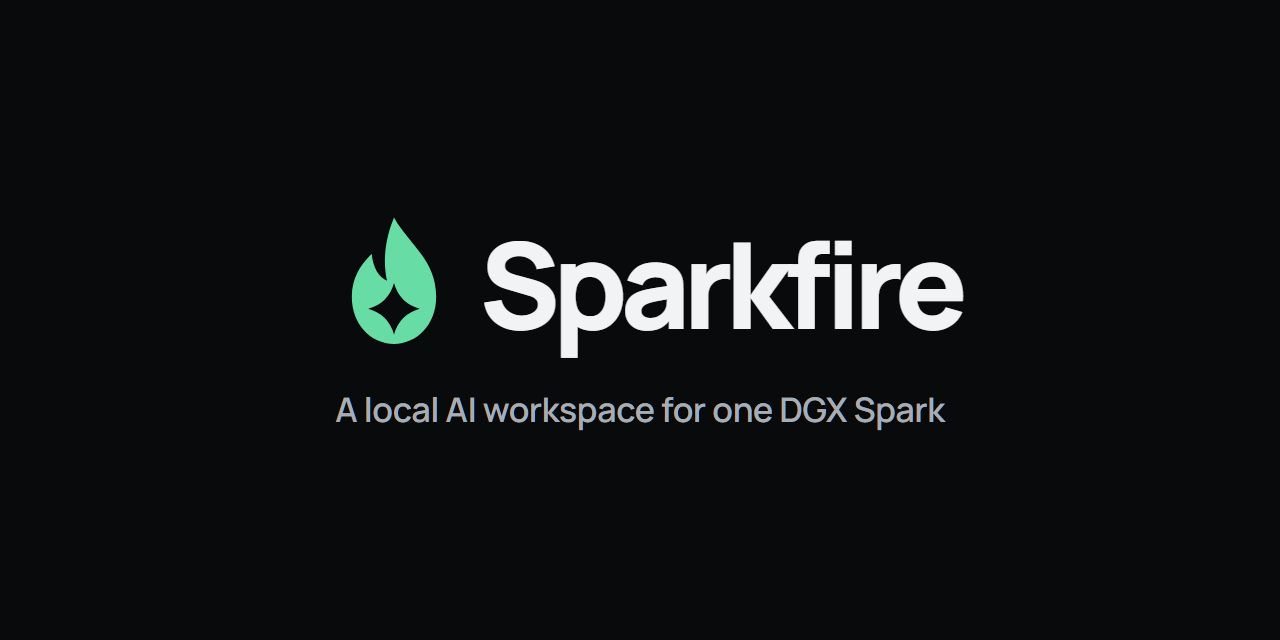
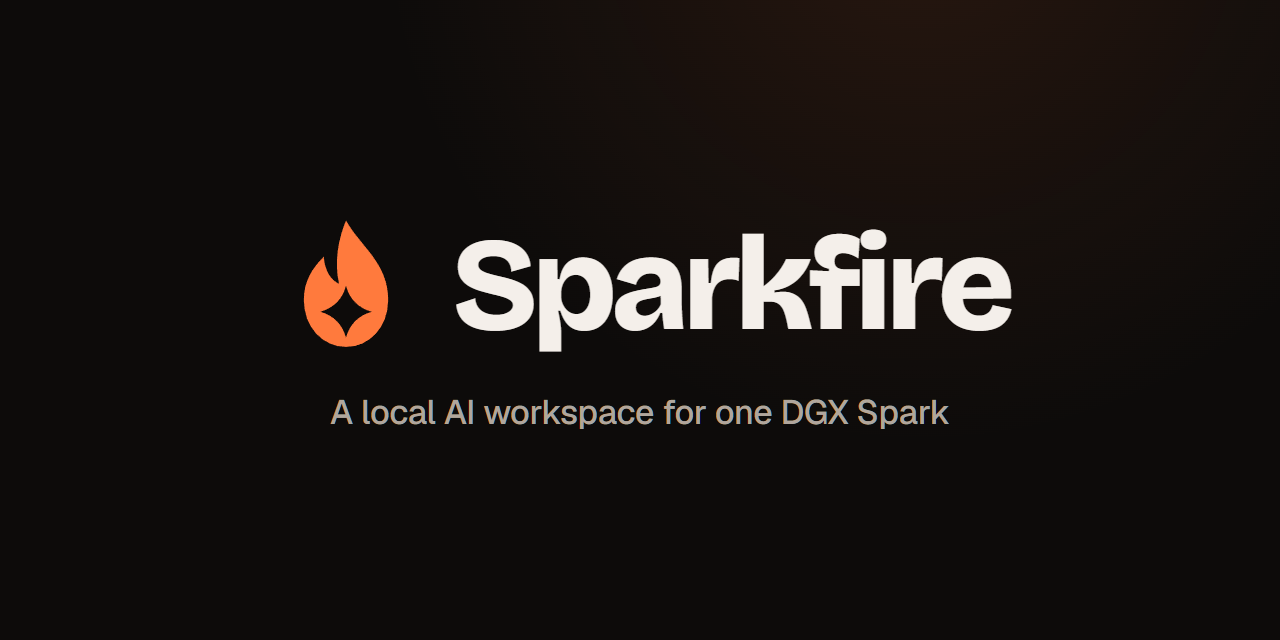
feat(ui): give Sparkfire a warm palette and an ember accent
Apart from the mint accent and the mark, Sparkfire still wore
SparklingKit's colours: the neutral ramp kept upstream's cool blue-grey
hex values, so the two apps looked the same at a glance. A flame mark in
a cool mint also never quite fitted the name.

The neutral ramp moves to warm charcoal in the dark theme and warm paper
in the light one, step for step, so no rule changes. The accent becomes
ember orange (#ff7a3d dark, #c2410c light), and the background glow
follows it. The amber family, which marks warnings and the OCR module,
shifts to a clear yellow so a warning never reads as the accent. Body,
muted and accent text keep at least 4.5:1 contrast in both themes, and
the accent at least 3:1 against panels for focus rings.

The favicon, the home-screen and manifest icons, the theme colour and
the GitHub social preview are redrawn in the new colours. Tests now keep
the favicon fills equal to each theme's accent and check that the light
theme defines every colour token the dark one does.

Changed region(s): [[0.2188, 0.3438, 0.8125, 0.5625], [0.25, 0.625, 0.75, 0.6875], [0.6562, 0.0, 0.7812, 0.0625]]

diff --git a/src/client/styles.css b/src/client/styles.css
@@ -17,30 +17,30 @@
    tinted families for status and module colours. The light theme mirrors each step. */
 :root {
   color-scheme: dark;
-  --sk-n0: #090a0c;
-  --sk-n1: #0d0f12;
-  --sk-n2: #111318;
-  --sk-n3: #15181d;
-  --sk-n4: #191c21;
-  --sk-n5: #1d2127;
-  --sk-n6: #22262d;
-  --sk-n7: #292e35;
-  --sk-n8: #303640;
-  --sk-n9: #3a414a;
-  --sk-n10: #4a515c;
-  --sk-n11: #5e6570;
-  --sk-n12: #7f8792;
-  --sk-n13: #a7adb5;
-  --sk-n14: #c4cad1;
-  --sk-n15: #e2e5e9;
-  --sk-n16: #f1f3f4;
+  --sk-n0: #0d0b0a;
+  --sk-n1: #121010;
+  --sk-n2: #161312;
+  --sk-n3: #1b1716;
+  --sk-n4: #1f1b19;
+  --sk-n5: #241f1d;
+  --sk-n6: #2a2422;
+  --sk-n7: #312b28;
+  --sk-n8: #3a332f;
+  --sk-n9: #453d38;
+  --sk-n10: #564c46;
+  --sk-n11: #6c615a;
+  --sk-n12: #8d8178;
+  --sk-n13: #b1a69c;
+  --sk-n14: #cbc2b9;
+  --sk-n15: #e5ded7;
+  --sk-n16: #f4efea;
   --sk-n17: #ffffff;
-  --sk-amber-1: #2d2715;
-  --sk-amber-2: #302711;
-  --sk-amber-3: #655227;
-  --sk-amber-4: #b06000;
-  --sk-amber-5: #c6b968;
-  --sk-amber-6: #f2c661;
+  --sk-amber-1: #29260f;
+  --sk-amber-2: #2d2a0e;
+  --sk-amber-3: #615a24;
+  --sk-amber-4: #a68a00;
+  --sk-amber-5: #d4c86a;
+  --sk-amber-6: #efd35e;
   --sk-blue-3: #0842a0;
   --sk-blue-4: #0b57d0;
   --sk-blue-6: #c5d9f0;
@@ -68,38 +68,38 @@
   --sk-teal-6: #9ed8ca;
   --sk-overlay: 255 255 255;
   --sk-shadow: 1;
-  --sk-glow: rgba(53, 82, 125, .16);
-  --sk-accent: #67dca5;
-  --sk-accent-hover: #82e6b7;
-  --sk-accent-ink: #062418;
-  --sk-accent-soft: rgba(103, 220, 165, .14);
+  --sk-glow: rgba(255, 122, 61, .11);
+  --sk-accent: #ff7a3d;
+  --sk-accent-hover: #ff935f;
+  --sk-accent-ink: #200b00;
+  --sk-accent-soft: rgba(255, 122, 61, .14);
 }
 :root[data-theme="light"] {
   color-scheme: light;
-  --sk-n0: #f2f3f5;
-  --sk-n1: #f7f8fa;
+  --sk-n0: #f5f2ee;
+  --sk-n1: #f9f7f4;
   --sk-n2: #ffffff;
   --sk-n3: #ffffff;
-  --sk-n4: #fbfbfc;
-  --sk-n5: #f2f4f6;
-  --sk-n6: #ebeef1;
-  --sk-n7: #e4e8ec;
-  --sk-n8: #d9dee4;
-  --sk-n9: #cbd0d7;
-  --sk-n10: #adb3bc;
-  --sk-n11: #8b929c;
-  --sk-n12: #6b727d;
-  --sk-n13: #555c66;
-  --sk-n14: #41474f;
-  --sk-n15: #2b3036;
-  --sk-n16: #16191d;
-  --sk-n17: #0c0e11;
-  --sk-amber-1: #f7f0e2;
-  --sk-amber-2: #ebe1d0;
-  --sk-amber-3: #d9c49d;
-  --sk-amber-4: #d27c26;
-  --sk-amber-5: #6c6516;
-  --sk-amber-6: #614800;
+  --sk-n4: #fcfbf9;
+  --sk-n5: #f4f1ed;
+  --sk-n6: #eeeae5;
+  --sk-n7: #e7e2dc;
+  --sk-n8: #ddd6cf;
+  --sk-n9: #cfc7bf;
+  --sk-n10: #b2a99f;
+  --sk-n11: #908579;
+  --sk-n12: #70665c;
+  --sk-n13: #5a5048;
+  --sk-n14: #463d36;
+  --sk-n15: #2f2924;
+  --sk-n16: #1a1613;
+  --sk-n17: #0e0b09;
+  --sk-amber-1: #f8f4dc;
+  --sk-amber-2: #eee6c4;
+  --sk-amber-3: #dccb8c;
+  --sk-amber-4: #b8900f;
+  --sk-amber-5: #6a6114;
+  --sk-amber-6: #5a4b00;
   --sk-blue-3: #b8c0ff;
   --sk-blue-4: #6687ff;
   --sk-blue-6: #3c4d5e;
@@ -125,13 +125,13 @@
   --sk-teal-4: #679a90;
   --sk-teal-5: #17705f;
   --sk-teal-6: #235349;
-  --sk-overlay: 15 23 42;
+  --sk-overlay: 26 22 19;
   --sk-shadow: .32;
-  --sk-glow: rgba(103, 220, 165, .10);
-  --sk-accent: #12805a;
-  --sk-accent-hover: #0d6c4b;
+  --sk-glow: rgba(194, 65, 12, .07);
+  --sk-accent: #c2410c;
+  --sk-accent-hover: #a3360a;
   --sk-accent-ink: #ffffff;
-  --sk-accent-soft: rgba(18, 128, 90, .12);
+  --sk-accent-soft: rgba(194, 65, 12, .10);
 }
 
 
@@ -700,7 +700,7 @@ textarea.input { @apply text-[16px]; resize: vertical; }
 .chat-composer textarea { @apply max-h-44 min-h-10 flex-1 resize-none overflow-y-auto bg-transparent px-2 py-2 text-[16px] leading-7 outline-none placeholder:text-[var(--sk-n12)]; }
 .send-button { @apply flex h-10 w-10 shrink-0 cursor-pointer items-center justify-center rounded-full bg-[var(--sk-blue-4)] text-[var(--sk-n17)] transition hover:bg-[var(--sk-blue-3)] disabled:bg-[var(--sk-n15)] disabled:text-[var(--sk-n12)]; box-shadow: 0 1px 3px rgba(11,87,208,.25); }
 /* First-run deployment */
-.onboarding-page { @apply min-h-screen text-[var(--sk-n16)]; background: radial-gradient(circle at 72% -15%, rgba(65, 96, 143, .2), transparent 34rem), var(--sk-n0); }
+.onboarding-page { @apply min-h-screen text-[var(--sk-n16)]; background: radial-gradient(circle at 72% -15%, var(--sk-glow), transparent 34rem), var(--sk-n0); }
 .onboarding-shell { @apply mx-auto flex min-h-screen w-full max-w-[1240px] flex-col px-7 pb-14 sm:px-10 lg:px-14; }
 .onboarding-header { @apply flex min-h-24 items-center justify-between gap-4 border-b border-[var(--sk-n7)]; }
 .onboarding-content { @apply mx-auto w-full max-w-[1040px] py-14 lg:py-20; }
@@ -948,7 +948,7 @@ textarea.input { @apply text-[16px]; resize: vertical; }
 .confirm-dialog-error { @apply mt-4 rounded-xl border border-red-200 bg-red-50 px-3.5 py-3 text-[14px] text-red-700; }
 .confirm-dialog-actions { @apply mt-6 flex justify-end gap-2; }
 
-/* Dark graphite theme */
+/* Charcoal and ember theme */
 html { background: var(--sk-n0); }
 body { background: radial-gradient(circle at 72% -15%, var(--sk-glow), transparent 34rem), var(--sk-n0); }
 ::selection { background: rgb(var(--sk-overlay) / .24); color: var(--sk-n17); }

diff --git a/src/client/pages/SettingsPage.tsx b/src/client/pages/SettingsPage.tsx
@@ -215,7 +215,7 @@ export function SettingsPage() {
           {!settings ? <div className="settings-loading"><div className="skeleton h-40" /><div className="skeleton h-40" /></div> : <div className="settings-panel-body">
           {tab === "general" && <section>
             <div className="settings-section-block"><h3>Appearance</h3><div className="settings-group settings-value-group">
-              <div className="settings-value-row"><span><strong>Theme</strong><small>Dark graphite, a light variant, or follow this device.</small></span><span className="theme-choice" role="radiogroup" aria-label="Theme">{themeChoices.map(({ value, label, icon: Icon }) => <button key={value} type="button" role="radio" aria-checked={settings.ui.theme === value} className={cn(settings.ui.theme === value && "active")} onClick={() => { setSettings({ ...settings, ui: { ...settings.ui, theme: value } }); applyTheme(value); }}><Icon size={15} />{label}</button>)}</span></div>
+              <div className="settings-value-row"><span><strong>Theme</strong><small>Dark charcoal, warm paper, or follow this device.</small></span><span className="theme-choice" role="radiogroup" aria-label="Theme">{themeChoices.map(({ value, label, icon: Icon }) => <button key={value} type="button" role="radio" aria-checked={settings.ui.theme === value} className={cn(settings.ui.theme === value && "active")} onClick={() => { setSettings({ ...settings, ui: { ...settings.ui, theme: value } }); applyTheme(value); }}><Icon size={15} />{label}</button>)}</span></div>
             </div></div>
             <div className="settings-section-block"><h3>Region and time</h3><div className="settings-group settings-value-group">
               <div className="settings-value-row"><span><strong>Time zone</strong><small>Used for displayed dates and times, and when naming new job and conversation folders. Existing work is not renamed.</small></span><span className="timezone-setting-control"><SearchSelect value={settings.ui.timezone} onChange={(timezone) => setSettings({ ...settings, ui: { ...settings.ui, timezone } })} options={[...(!["UTC", ...timezoneOptions].includes(settings.ui.timezone) ? [{ value: settings.ui.timezone, label: settings.ui.timezone.replaceAll("_", " ") }] : []), { value: "UTC", label: "UTC" }, ...timezoneOptions.filter((timezone) => timezone !== "UTC").map((timezone) => ({ value: timezone, label: timezone.replaceAll("_", " ") }))]} searchPlaceholder="Search time zones" emptyMessage="No time zones found" ariaLabel="Time zone" /><button className="button-secondary compact" onClick={() => setSettings({ ...settings, ui: { ...settings.ui, timezone: browserTimezone } })}>Use device time zone</button></span></div>

diff --git a/src/client/brand.test.ts b/src/client/brand.test.ts
@@ -4,9 +4,28 @@ import { brandMarkPath } from "./brand";
 
 const read = (file: string) => readFileSync(new URL(file, import.meta.url), "utf8");
 
+/** The `--sk-*` tokens one theme block of styles.css defines, by name. */
+function themeTokens(selector: string) {
+  const css = read("./styles.css");
+  const start = css.indexOf(`${selector} {`);
+  const block = css.slice(start, css.indexOf("}", start));
+  return Object.fromEntries([...block.matchAll(/--(sk-[\w-]+):\s*([^;]+);/g)].map((match) => [match[1], match[2].trim()]));
+}
+
 describe("brand assets", () => {
   it("draws the favicon with the in-app mark's path", () => {
     expect(read("./public/favicon.svg")).toContain(`d="${brandMarkPath}"`);
+  });
+
+  it("fills the favicon with each theme's accent", () => {
+    const favicon = read("./public/favicon.svg");
+    expect(favicon).toContain(`path{fill:${themeTokens(":root")["sk-accent"]}}`);
+    expect(favicon).toContain(`@media (prefers-color-scheme:light){path{fill:${themeTokens(':root[data-theme="light"]')["sk-accent"]}}}`);
+  });
+
+  it("gives the light theme a value for every dark theme colour", () => {
+    const dark = Object.keys(themeTokens(":root")).filter((name) => !name.startsWith("sk-radius"));
+    expect(Object.keys(themeTokens(':root[data-theme="light"]')).sort()).toEqual(dark.sort());
   });
 
   it("links only icons that exist", () => {

diff --git a/src/client/theme.ts b/src/client/theme.ts
@@ -21,7 +21,7 @@ export function applyTheme(preference: ThemePreference | undefined) {
   const apply = () => {
     const theme = resolveTheme(preference, media?.matches ?? true);
     document.documentElement.dataset.theme = theme;
-    document.querySelector('meta[name="theme-color"]')?.setAttribute("content", theme === "dark" ? "#090a0c" : "#f2f3f5");
+    document.querySelector('meta[name="theme-color"]')?.setAttribute("content", theme === "dark" ? "#0d0b0a" : "#f5f2ee");
   };
   apply();
   try { window.localStorage.setItem(themeStorageKey, preference || "auto"); } catch { /* Storage can be unavailable in private contexts. */ }

diff --git a/src/client/index.html b/src/client/index.html
@@ -3,7 +3,7 @@
   <head>
     <meta charset="UTF-8" />
     <meta name="viewport" content="width=device-width, initial-scale=1.0" />
-    <meta name="theme-color" content="#090a0c" />
+    <meta name="theme-color" content="#0d0b0a" />
     <link rel="icon" href="/favicon.ico" sizes="32x32" />
     <link rel="icon" href="/favicon.svg" type="image/svg+xml" />
     <link rel="apple-touch-icon" href="/apple-touch-icon.png" />
